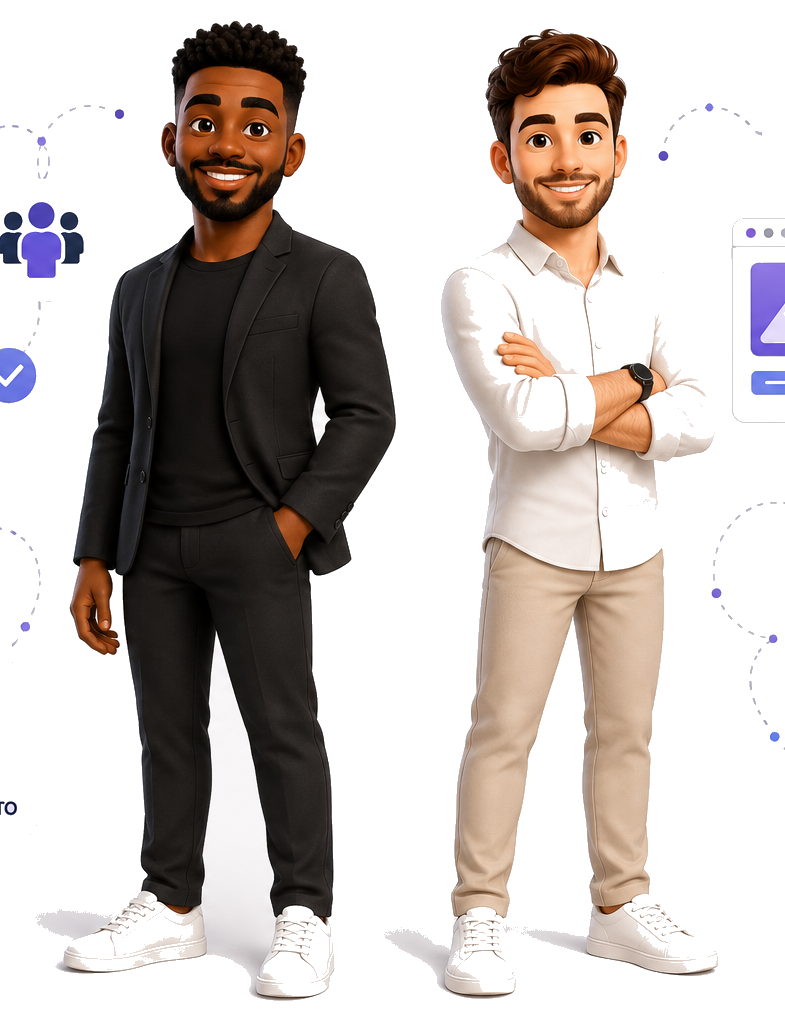
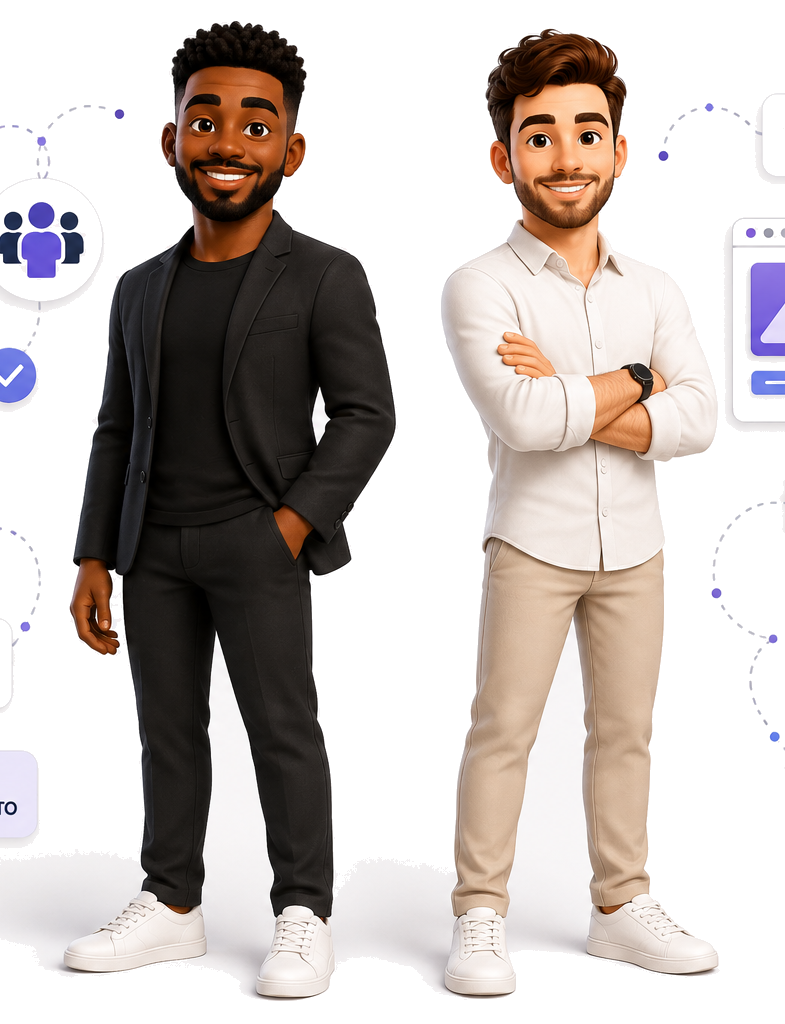
alteração

diff --git a/src/app/App.tsx b/src/app/App.tsx
@@ -316,7 +316,7 @@ Descrição da necessidade: ${necessidade}`;
       >
         <div className="mx-auto flex min-h-[76px] max-w-7xl items-center justify-between gap-4 px-5 py-0 sm:px-6 lg:gap-6 lg:px-10">
           <a href="#inicio" aria-label="Ir para o início" className="flex items-center">
-            <Logo variant={scrolled ? "color" : "white"} showText={false} className="h-16 min-h-16 max-h-16 w-auto max-w-none flex-none sm:h-[90px] sm:min-h-[90px] sm:max-h-[90px]" />
+            <Logo variant={scrolled ? "color" : "white"} showText={false} className="h-14 min-h-14 max-h-14 w-auto max-w-none flex-none sm:h-[80px] sm:min-h-[80px] sm:max-h-[80px]" />
           </a>
 
           <nav className="hidden flex-1 items-center justify-center gap-6 xl:flex 2xl:gap-10" aria-label="Menu principal">
@@ -428,7 +428,7 @@ Descrição da necessidade: ${necessidade}`;
               <img
                 src="/assets/home-avatar-transparent.png"
                 alt="Dois profissionais da HR Gestão e Soluções"
-                className="h-auto max-h-[clamp(360px,68vh,620px)] w-[min(94vw,560px)] max-w-none object-contain motion-safe:animate-[avatarBreath_5s_ease-in-out_infinite] lg:w-[clamp(400px,40vw,500px)]"
+                className="h-auto max-h-[clamp(360px,68vh,560px)] w-[min(94vw,520px)] max-w-none object-contain motion-safe:animate-[avatarBreath_5s_ease-in-out_infinite] lg:w-[clamp(360px,32vw,440px)]"
                 draggable={false}
               />
             </div>
